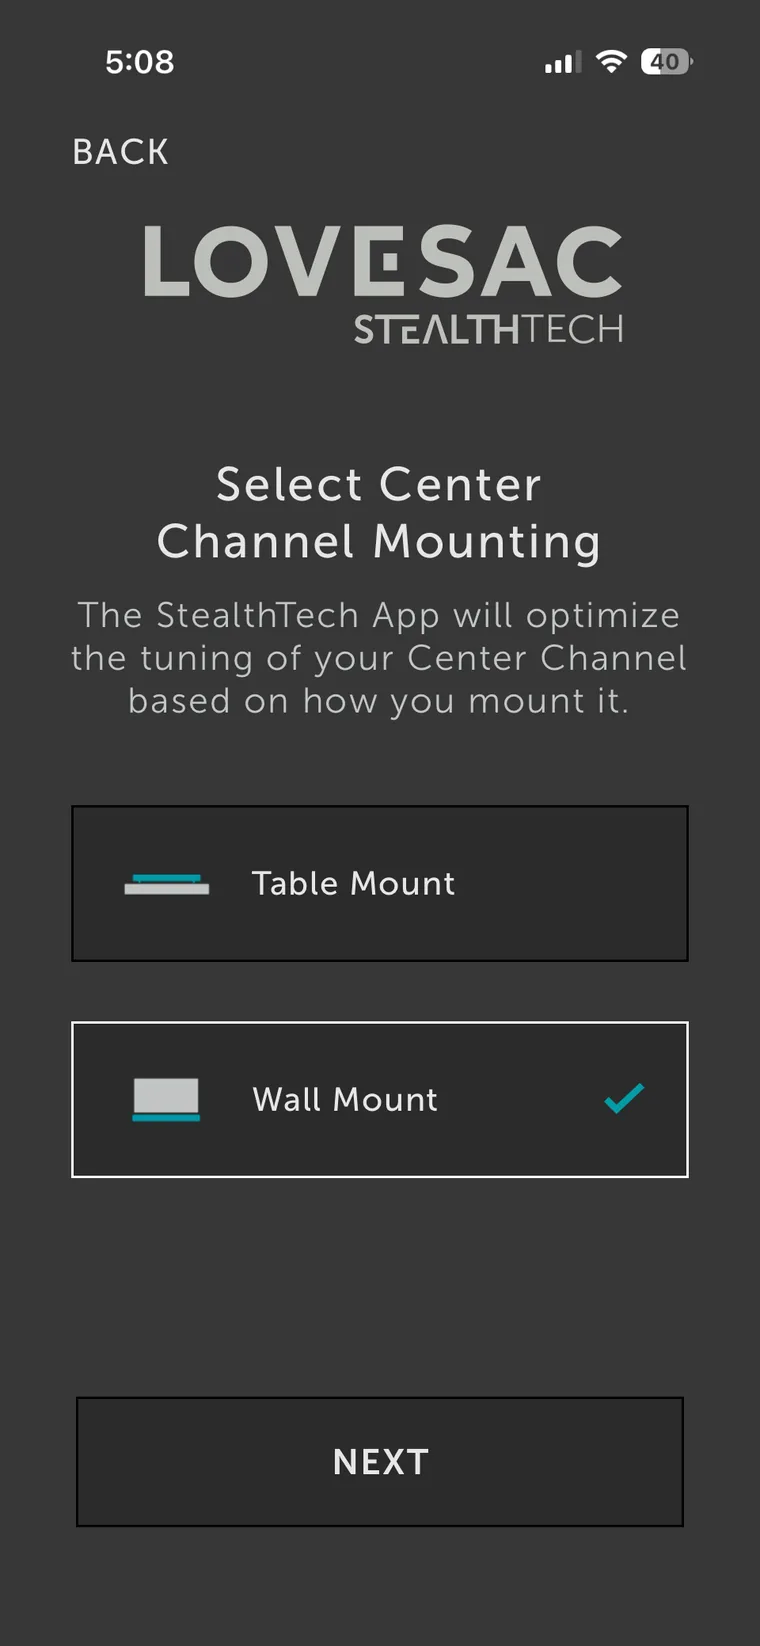
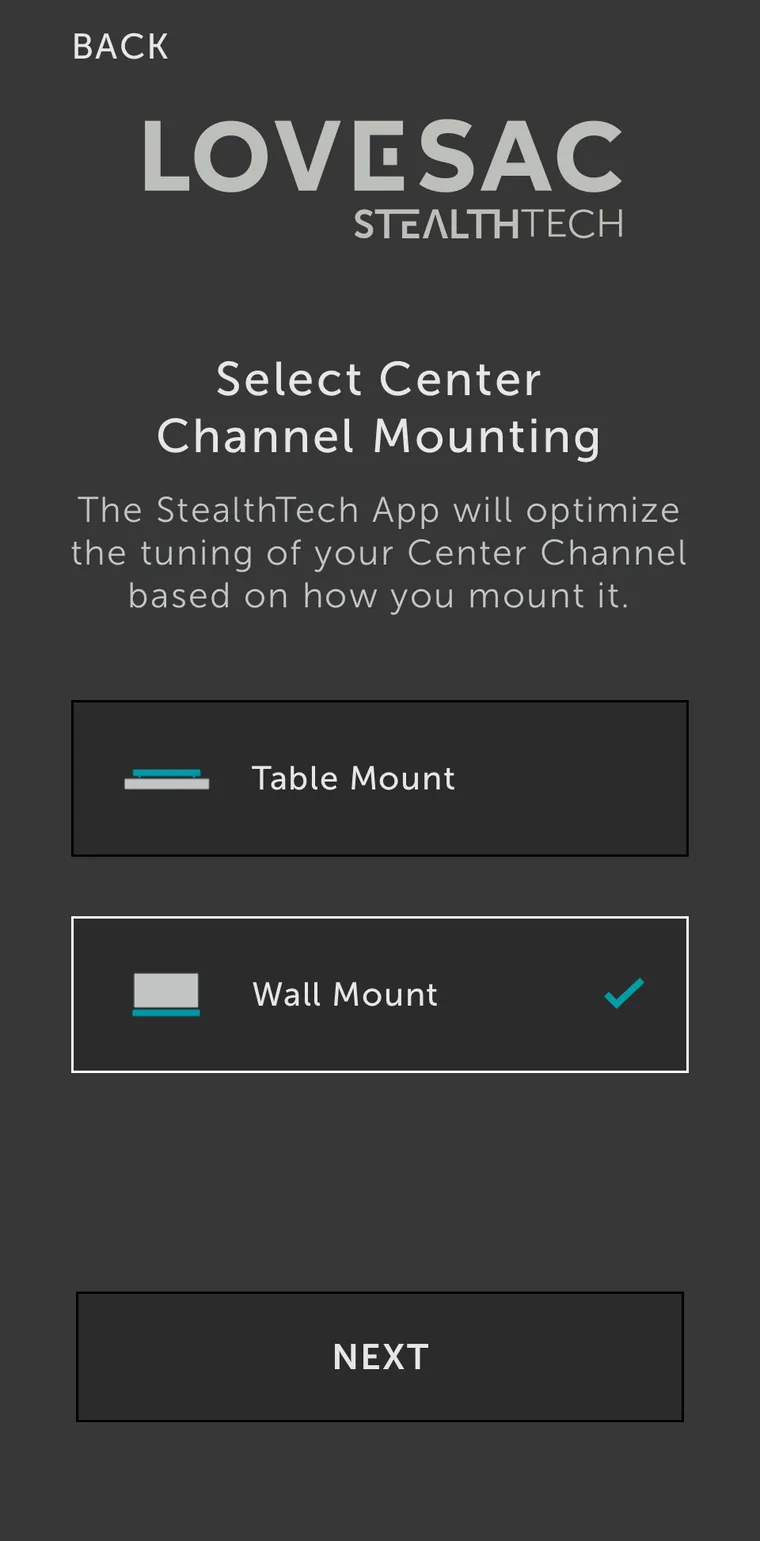
Fix carousel sizing and crop status bar from two screens
Match the before-carousel viewport width to the after mockup's
phone-slot (both were resolving to different sizes inside the flex
row with the prev/next buttons). Also crop the iOS status bar off
the Layout and Center Channel screenshots, which came from a
different raw capture than the other two carousel slides and still
had it, so all four now start cleanly at "BACK" like the proposed
mockup does.

diff --git a/work/lovesac-case-study-3.html b/work/lovesac-case-study-3.html
@@ -394,7 +394,7 @@
 
   /* Full-size "before" carousel (Finding 1) */
   .stx-carousel{display:flex; align-items:center; justify-content:center; gap:8px;}
-  .stx-carousel .stx-car-viewport{overflow:hidden; margin:0;}
+  .stx-carousel .stx-car-viewport{overflow:hidden; margin:0; width:100%; max-width:280px; flex:0 1 280px;}
   .stx-car-track{display:flex; height:100%; transition:transform .35s cubic-bezier(.16,1,.3,1);}
   .stx-car-slide{flex:0 0 100%; width:100%; height:100%;}
   .stx-car-slide img{width:100%; height:100%; object-fit:cover; object-position:top; border-radius:22px; display:block;}
@@ -854,10 +854,10 @@
           <button class="stx-car-btn prev" type="button" aria-label="Previous screen">&lsaquo;</button>
           <div class="phone-slot stx-car-viewport">
             <div class="stx-car-track">
-              <div class="stx-car-slide"><img src="/images/lovesac-stealthtech-layout-before.webp" width="760" height="1646" loading="lazy" decoding="async" alt="StealthTech app Select Your Sactionals Layout screen with the Left L configuration selected."></div>
+              <div class="stx-car-slide"><img src="/images/lovesac-stealthtech-layout-before.webp" width="760" height="1541" loading="lazy" decoding="async" alt="StealthTech app Select Your Sactionals Layout screen with the Left L configuration selected."></div>
               <div class="stx-car-slide"><img src="/images/lovesac-stealthtech-armstyle-before.webp" width="760" height="1547" loading="lazy" decoding="async" alt="StealthTech app Select Arm Style screen, showing Standard, Swept, and Angled arm diagrams with and without an acoustic pillow."></div>
               <div class="stx-car-slide"><img src="/images/lovesac-stealthtech-fabric-before.webp" width="760" height="1551" loading="lazy" decoding="async" alt="StealthTech app Fabric Selection screen with a Fabric Category accordion listing Bouclé, Canvas, Chenille, and Denim."></div>
-              <div class="stx-car-slide"><img src="/images/lovesac-stealthtech-centerchannel-before.webp" width="760" height="1646" loading="lazy" decoding="async" alt="StealthTech app Select Center Channel Mounting screen with Wall Mount selected."></div>
+              <div class="stx-car-slide"><img src="/images/lovesac-stealthtech-centerchannel-before.webp" width="760" height="1541" loading="lazy" decoding="async" alt="StealthTech app Select Center Channel Mounting screen with Wall Mount selected."></div>
             </div>
           </div>
           <button class="stx-car-btn next" type="button" aria-label="Next screen">&rsaquo;</button>
@@ -874,7 +874,7 @@
       </div>
       <div class="nav-col after">
         <div class="nav-label"><span class="sw"></span>Proposed &mdash; one scan</div>
-        <div class="phone-slot">
+        <div class="phone-slot" style="max-width:280px;">
           <div class="stx-mock">
             <div class="stx-back">&larr; BACK</div>
             <div class="stx-word"><b>LOVESAC</b><span>STEALTHTECH</span></div>
